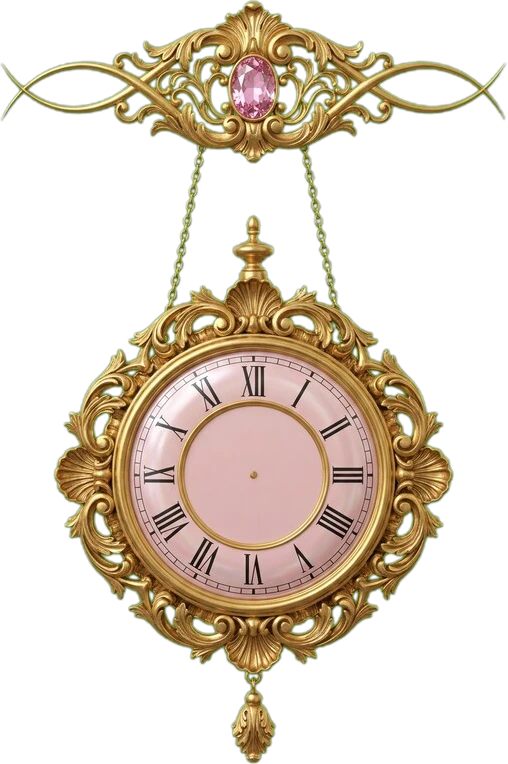
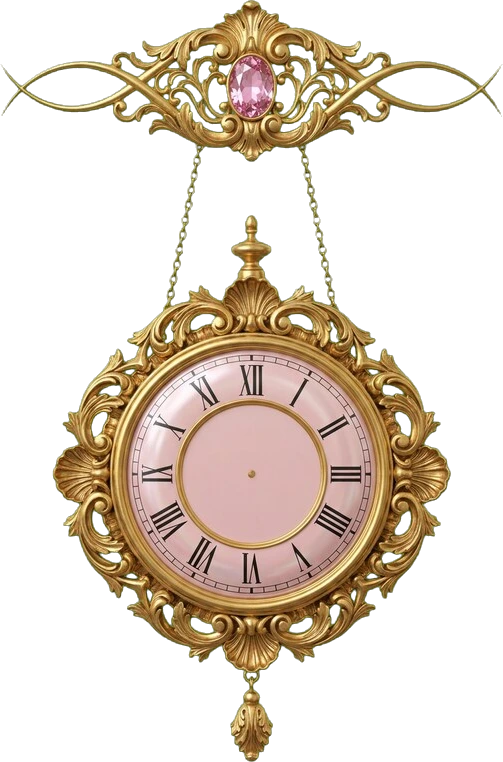
Relógio: recorte limpo, sem borda verde nem brilho quadrado
Claude-Session: https://claude.ai/code/session_01TSKXYpFVNA2GHbmrVgxUKd

Changed region(s): [[0.0, 0.0, 1.0, 1.0], [0.4771, 0.4829, 0.5368, 0.5131]]

diff --git a/index.html b/index.html
@@ -356,8 +356,8 @@ section.cast.band{padding-top:0}
 .week .head{flex-direction:column;align-items:center;text-align:center;justify-content:center}
 .week .head>.clock{order:-1;background:none!important;border:0!important;box-shadow:none!important;padding:0!important;display:grid;justify-items:center;gap:0;width:100%}
 .rel-img{position:relative;width:clamp(210px,24vw,300px);animation:relBalanca 6s ease-in-out infinite;transform-origin:50% 0}
-.rel-img img{display:block;width:100%;height:auto;filter:drop-shadow(0 16px 22px rgba(0,0,0,.5)) drop-shadow(0 0 30px rgba(250,211,118,.18))}
-.ponteiros{position:absolute;left:49.4%;top:62.3%;width:0;height:0}
+.rel-img img{display:block;width:100%;height:auto;filter:drop-shadow(0 14px 18px rgba(0,0,0,.45))}
+.ponteiros{position:absolute;left:49.5%;top:62.3%;width:0;height:0}
 .ponteiros i{position:absolute;left:0;bottom:0;transform-origin:50% 100%;border-radius:3px}
 .ponteiros .hh{width:5px;margin-left:-2.5px;height:clamp(30px,3.6vw,46px);background:linear-gradient(#2b1c24,#4a2a36);transform-origin:50% 100%}
 .ponteiros .hm{width:3.5px;margin-left:-1.75px;height:clamp(46px,5.2vw,66px);background:linear-gradient(#2b1c24,#4a2a36)}
@@ -641,7 +641,7 @@ function tick(){const w=openWeek();
  const placa=fim?`<div class="rel-placa">${cel(d,"dias")}${cel(h,"horas")}${cel(m,"min")}${cel(sg,"seg")}</div><em class="rel-leg">para o fim da votação · fecha terça, às 20h</em>`
   :`<div class="rel-placa fechada"><div><b>Votação encerrada</b><span>${selWeek?"resultado final da torcida":"a próxima abre depois do episódio de terça"}</span></div></div>`;
  const el=$("#clock");
- if(!el.querySelector(".rel-img"))el.innerHTML=`<div class="rel-img"><img src="assets/relogio.webp" alt="Relógio rococó"><div class="ponteiros"><i class="hh"></i><i class="hm"></i><i class="hs"></i><b></b></div></div><div class="rel-baixo"></div>`;
+ if(!el.querySelector(".rel-img"))el.innerHTML=`<div class="rel-img"><img src="assets/relogio.webp?v=3" alt="Relógio rococó"><div class="ponteiros"><i class="hh"></i><i class="hm"></i><i class="hs"></i><b></b></div></div><div class="rel-baixo"></div>`;
  el.querySelector(".rel-baixo").innerHTML=placa;
  const t=new Date(),hr=t.getHours()%12,mi=t.getMinutes(),se=t.getSeconds();
  el.querySelector(".hh").style.transform=`rotate(${hr*30+mi/2}deg)`;el.querySelector(".hm").style.transform=`rotate(${mi*6+se/10}deg)`;el.querySelector(".hs").style.transform=`rotate(${se*6}deg)`;}
